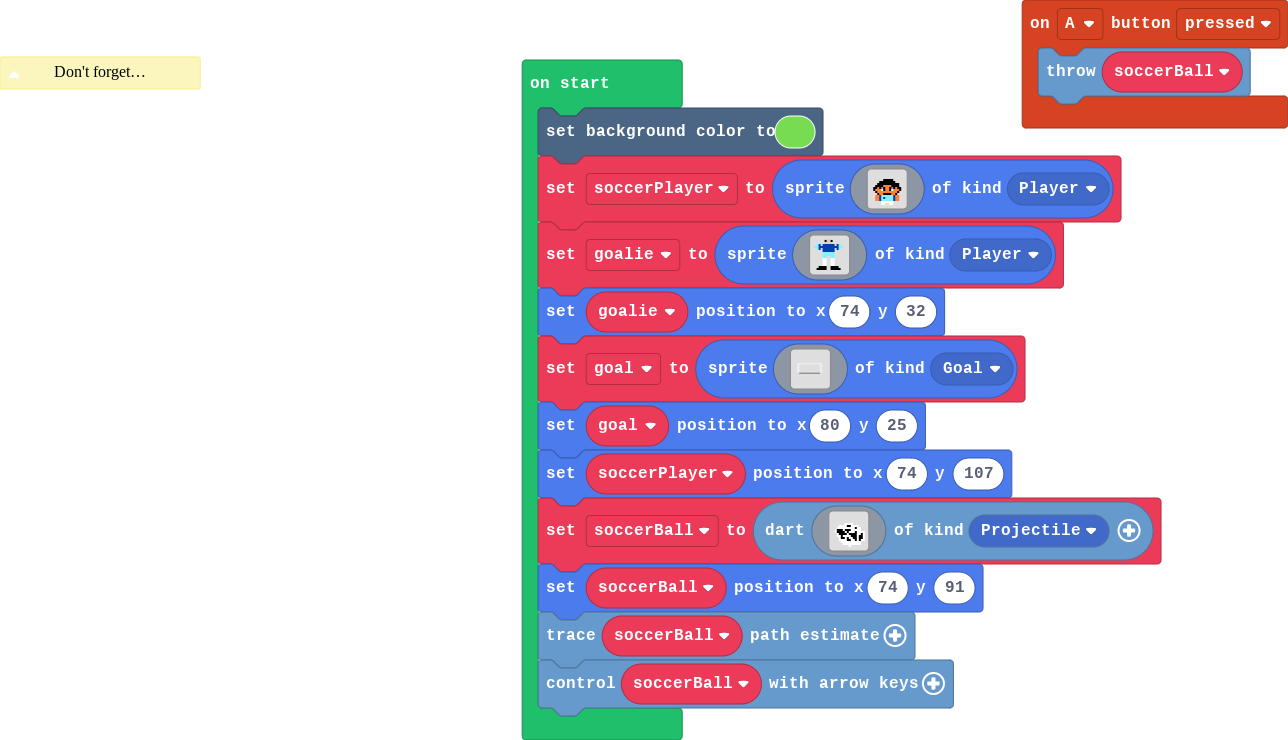
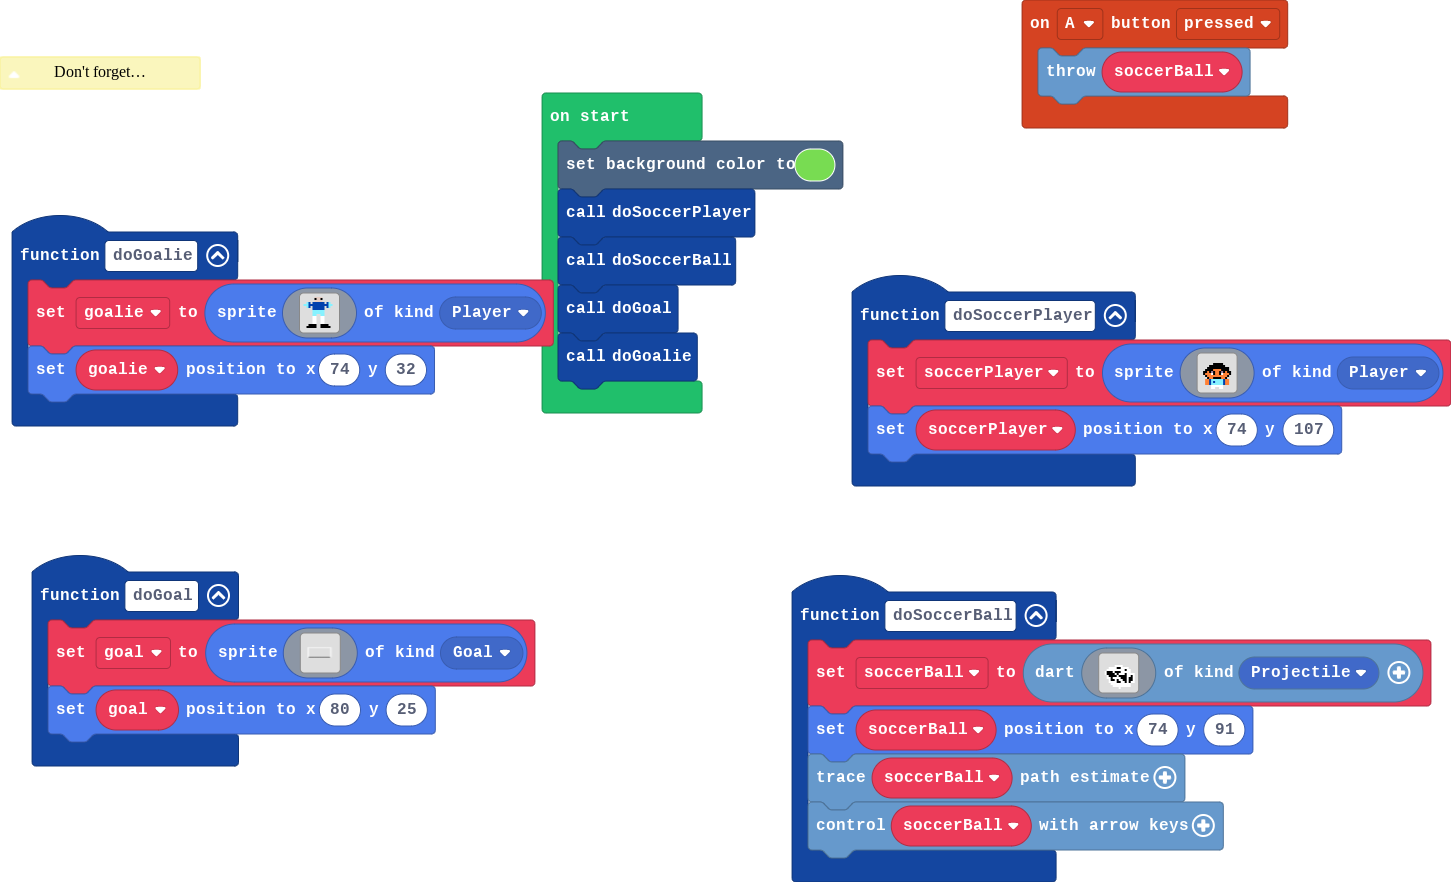
Update main.blocks, main.ts

diff --git a/main.ts b/main.ts
@@ -4,146 +4,161 @@ namespace SpriteKind {
 /**
  * Don't forget to comment your code as you work!
  */
+function doGoalie () {
+    goalie = sprites.create(img`
+        ...........dddddddd.............
+        ...........ffddddff.............
+        ...........ffddddff.............
+        ...........dddddddd.............
+        ...........dddddddd.............
+        ...9988..888888888888..8899.....
+        ...9988..888888888888..8899.....
+        99999888888888888888888889999...
+        99999888888888888888888889999...
+        ...9988..888888888888..8899.....
+        ...9988..888888888888..8899.....
+        .........888888888888...........
+        .........888888888888...........
+        .........999999999999...........
+        .........999999999999...........
+        .........999999999999...........
+        .........999999999999...........
+        .........9999....9999...........
+        .........9999....9999...........
+        .........1111....1111...........
+        .........1111....1111...........
+        .........1111....1111...........
+        .........1111....1111...........
+        .........1111....1111...........
+        .........1111....1111...........
+        .........1111....1111...........
+        .........1111....1111...........
+        .....ffffffff....ffffffff.......
+        .....ffffffff....ffffffff.......
+        ...ffffffffff....ffffffffff.....
+        ...ffffffffff....ffffffffff.....
+        ................................
+        `, SpriteKind.Player)
+    goalie.setPosition(74, 32)
+}
+function doSoccerPlayer () {
+    soccerPlayer = sprites.create(img`
+        . . . . . . . . . . . . . . . . 
+        . . . . . . . . . . . . . . . . 
+        . . . . . . . . . . . . . . . . 
+        . . . . . . f f f f f . . . . . 
+        . . . . f f f f f f f f . . . . 
+        . . . f f f f f f f f f f f . . 
+        . . f f f f 4 4 4 4 f f f f . . 
+        . f f 4 f b f 4 4 f b f 4 f f . 
+        . f 4 4 4 1 f 4 4 f 1 4 4 4 f . 
+        . . f 4 4 4 4 4 4 4 4 4 4 f . . 
+        . . . f 4 4 f f f f 4 4 f . . . 
+        . . 4 4 8 9 9 9 9 9 9 8 4 4 . . 
+        . . 4 4 8 9 8 9 9 9 9 8 4 4 . . 
+        . . 4 4 8 9 9 9 9 9 9 8 4 4 . . 
+        . . . . . 1 1 1 1 1 1 . . . . . 
+        . . . . . 1 1 . . 1 1 . . . . . 
+        `, SpriteKind.Player)
+    soccerPlayer.setPosition(74, 107)
+}
 controller.A.onEvent(ControllerButtonEvent.Pressed, function () {
     soccerBall.throwDart()
 })
+function doGoal () {
+    goal = sprites.create(img`
+        ......................................................................................................................................................
+        ......................................................................................................................................................
+        ......................................................................................................................................................
+        ......................................................................................................................................................
+        ......................................................................................................................................................
+        ......................................................................................................................................................
+        ................111111111111111111111111111111111111111111111111111111111111111111111111111111111111111111111111111111111111111.......................
+        ................111111111111111111111111111111111111111111111111111111111111111111111111111111111111111111111111111111111111111.......................
+        ................111111111111111111111111111111111111111111111111111111111111111111111111111111111111111111111111111111111111111.......................
+        ................11111.....................................................................................................11111.......................
+        ................11111.....................................................................................................11111.......................
+        ................11111.....................................................................................................11111.......................
+        ................11111.....................................................................................................11111.......................
+        ................11111.....................................................................................................11111.......................
+        ................11111.....................................................................................................11111.......................
+        ................11111.....................................................................................................11111.......................
+        ................11111.....................................................................................................11111.......................
+        ................11111.....................................................................................................11111.......................
+        ................11111.....................................................................................................11111.......................
+        ................11111.....................................................................................................11111.......................
+        ................11111.....................................................................................................11111.......................
+        ................11111.....................................................................................................11111.......................
+        ................11111.....................................................................................................11111.......................
+        ................11111.....................................................................................................11111.......................
+        ................11111.....................................................................................................11111.......................
+        ................11111.....................................................................................................11111.......................
+        ................11111.....................................................................................................11111.......................
+        ................11111.....................................................................................................11111.......................
+        ................11111.....................................................................................................11111.......................
+        ................11111.....................................................................................................11111.......................
+        ................11111.....................................................................................................11111.......................
+        ................11111.....................................................................................................11111.......................
+        ................11111.....................................................................................................11111.......................
+        ................11111.....................................................................................................11111.......................
+        ................11111.....................................................................................................11111.......................
+        ................11111.....................................................................................................11111.......................
+        ................11111.....................................................................................................11111.......................
+        ................11111.....................................................................................................11111.......................
+        ................11111.....................................................................................................11111.......................
+        ................11111.....................................................................................................11111.......................
+        ................11111.....................................................................................................11111.......................
+        ................11111.....................................................................................................11111.......................
+        ................11111.....................................................................................................11111.......................
+        ................11111.....................................................................................................11111.......................
+        ................11111.....................................................................................................11111.......................
+        ................11111.....................................................................................................11111.......................
+        ................11111.....................................................................................................11111.......................
+        ................11111.....................................................................................................11111.......................
+        ................11111.....................................................................................................11111.......................
+        ................11111.....................................................................................................11111.......................
+        ................11111.....................................................................................................11111.......................
+        ................11111.....................................................................................................11111.......................
+        ................11111fffffffffffffffffffffffffffffffffffffffffffffffffffffffffffffffffffffffffffffffffffffffffffffffffffff11111.......................
+        ................11111fffffffffffffffffffffffffffffffffffffffffffffffffffffffffffffffffffffffffffffffffffffffffffffffffffff11111.......................
+        ......................................................................................................................................................
+        ......................................................................................................................................................
+        ......................................................................................................................................................
+        ......................................................................................................................................................
+        ......................................................................................................................................................
+        ......................................................................................................................................................
+        `, SpriteKind.Goal)
+    goal.setPosition(80, 25)
+}
+function doSoccerBall () {
+    soccerBall = darts.create(img`
+        . . . . . . . . . . . . . . . . 
+        . . . . . . . . . . . . . . . . 
+        . . . . . . . . . . . . . . . . 
+        . . . . . . . . . . . . . . . . 
+        . . . . . . 1 1 1 1 . . . . . . 
+        . . . 1 1 1 1 f f 1 1 1 1 . . . 
+        . . 1 1 1 1 1 1 1 1 1 f 1 1 . . 
+        . 1 f f f 1 f f f 1 1 1 1 1 . . 
+        . 1 f f f f 1 f 1 1 1 f 1 1 1 1 
+        . . 1 f f f f 1 f f f f 1 1 f 1 
+        . . 1 1 f 1 1 1 1 f f f 1 f f 1 
+        . . . 1 f f 1 f 1 1 f f 1 f f 1 
+        . . . 1 1 1 1 f f 1 1 f 1 f 1 1 
+        . . . . 1 1 1 1 1 1 1 1 1 1 . . 
+        . . . . . 1 1 1 1 1 1 1 1 1 . . 
+        . . . . . . . . 1 . . . . . . . 
+        `, SpriteKind.Projectile)
+    soccerBall.setPosition(74, 91)
+    soccerBall.setTrace()
+    soccerBall.controlWithArrowKeys()
+}
+let goal: Sprite = null
 let soccerBall: Dart = null
+let soccerPlayer: Sprite = null
+let goalie: Sprite = null
 scene.setBackgroundColor(7)
-let soccerPlayer = sprites.create(img`
-    . . . . . . . . . . . . . . . . 
-    . . . . . . . . . . . . . . . . 
-    . . . . . . . . . . . . . . . . 
-    . . . . . . f f f f f . . . . . 
-    . . . . f f f f f f f f . . . . 
-    . . . f f f f f f f f f f f . . 
-    . . f f f f 4 4 4 4 f f f f . . 
-    . f f 4 f b f 4 4 f b f 4 f f . 
-    . f 4 4 4 1 f 4 4 f 1 4 4 4 f . 
-    . . f 4 4 4 4 4 4 4 4 4 4 f . . 
-    . . . f 4 4 f f f f 4 4 f . . . 
-    . . 4 4 8 9 9 9 9 9 9 8 4 4 . . 
-    . . 4 4 8 9 8 9 9 9 9 8 4 4 . . 
-    . . 4 4 8 9 9 9 9 9 9 8 4 4 . . 
-    . . . . . 1 1 1 1 1 1 . . . . . 
-    . . . . . 1 1 . . 1 1 . . . . . 
-    `, SpriteKind.Player)
-let goalie = sprites.create(img`
-    ...........dddddddd.............
-    ...........ffddddff.............
-    ...........ffddddff.............
-    ...........dddddddd.............
-    ...........dddddddd.............
-    ...9988..888888888888..8899.....
-    ...9988..888888888888..8899.....
-    99999888888888888888888889999...
-    99999888888888888888888889999...
-    ...9988..888888888888..8899.....
-    ...9988..888888888888..8899.....
-    .........888888888888...........
-    .........888888888888...........
-    .........999999999999...........
-    .........999999999999...........
-    .........999999999999...........
-    .........999999999999...........
-    .........9999....9999...........
-    .........9999....9999...........
-    .........1111....1111...........
-    .........1111....1111...........
-    .........1111....1111...........
-    .........1111....1111...........
-    .........1111....1111...........
-    .........1111....1111...........
-    .........1111....1111...........
-    .........1111....1111...........
-    .....ffffffff....ffffffff.......
-    .....ffffffff....ffffffff.......
-    ...ffffffffff....ffffffffff.....
-    ...ffffffffff....ffffffffff.....
-    ................................
-    `, SpriteKind.Player)
-goalie.setPosition(74, 32)
-let goal = sprites.create(img`
-    ......................................................................................................................................................
-    ......................................................................................................................................................
-    ......................................................................................................................................................
-    ......................................................................................................................................................
-    ......................................................................................................................................................
-    ......................................................................................................................................................
-    ................111111111111111111111111111111111111111111111111111111111111111111111111111111111111111111111111111111111111111.......................
-    ................111111111111111111111111111111111111111111111111111111111111111111111111111111111111111111111111111111111111111.......................
-    ................111111111111111111111111111111111111111111111111111111111111111111111111111111111111111111111111111111111111111.......................
-    ................11111.....................................................................................................11111.......................
-    ................11111.....................................................................................................11111.......................
-    ................11111.....................................................................................................11111.......................
-    ................11111.....................................................................................................11111.......................
-    ................11111.....................................................................................................11111.......................
-    ................11111.....................................................................................................11111.......................
-    ................11111.....................................................................................................11111.......................
-    ................11111.....................................................................................................11111.......................
-    ................11111.....................................................................................................11111.......................
-    ................11111.....................................................................................................11111.......................
-    ................11111.....................................................................................................11111.......................
-    ................11111.....................................................................................................11111.......................
-    ................11111.....................................................................................................11111.......................
-    ................11111.....................................................................................................11111.......................
-    ................11111.....................................................................................................11111.......................
-    ................11111.....................................................................................................11111.......................
-    ................11111.....................................................................................................11111.......................
-    ................11111.....................................................................................................11111.......................
-    ................11111.....................................................................................................11111.......................
-    ................11111.....................................................................................................11111.......................
-    ................11111.....................................................................................................11111.......................
-    ................11111.....................................................................................................11111.......................
-    ................11111.....................................................................................................11111.......................
-    ................11111.....................................................................................................11111.......................
-    ................11111.....................................................................................................11111.......................
-    ................11111.....................................................................................................11111.......................
-    ................11111.....................................................................................................11111.......................
-    ................11111.....................................................................................................11111.......................
-    ................11111.....................................................................................................11111.......................
-    ................11111.....................................................................................................11111.......................
-    ................11111.....................................................................................................11111.......................
-    ................11111.....................................................................................................11111.......................
-    ................11111.....................................................................................................11111.......................
-    ................11111.....................................................................................................11111.......................
-    ................11111.....................................................................................................11111.......................
-    ................11111.....................................................................................................11111.......................
-    ................11111.....................................................................................................11111.......................
-    ................11111.....................................................................................................11111.......................
-    ................11111.....................................................................................................11111.......................
-    ................11111.....................................................................................................11111.......................
-    ................11111.....................................................................................................11111.......................
-    ................11111.....................................................................................................11111.......................
-    ................11111.....................................................................................................11111.......................
-    ................11111fffffffffffffffffffffffffffffffffffffffffffffffffffffffffffffffffffffffffffffffffffffffffffffffffffff11111.......................
-    ................11111fffffffffffffffffffffffffffffffffffffffffffffffffffffffffffffffffffffffffffffffffffffffffffffffffffff11111.......................
-    ......................................................................................................................................................
-    ......................................................................................................................................................
-    ......................................................................................................................................................
-    ......................................................................................................................................................
-    ......................................................................................................................................................
-    ......................................................................................................................................................
-    `, SpriteKind.Goal)
-goal.setPosition(80, 25)
-soccerPlayer.setPosition(74, 107)
-soccerBall = darts.create(img`
-    . . . . . . . . . . . . . . . . 
-    . . . . . . . . . . . . . . . . 
-    . . . . . . . . . . . . . . . . 
-    . . . . . . . . . . . . . . . . 
-    . . . . . . 1 1 1 1 . . . . . . 
-    . . . 1 1 1 1 f f 1 1 1 1 . . . 
-    . . 1 1 1 1 1 1 1 1 1 f 1 1 . . 
-    . 1 f f f 1 f f f 1 1 1 1 1 . . 
-    . 1 f f f f 1 f 1 1 1 f 1 1 1 1 
-    . . 1 f f f f 1 f f f f 1 1 f 1 
-    . . 1 1 f 1 1 1 1 f f f 1 f f 1 
-    . . . 1 f f 1 f 1 1 f f 1 f f 1 
-    . . . 1 1 1 1 f f 1 1 f 1 f 1 1 
-    . . . . 1 1 1 1 1 1 1 1 1 1 . . 
-    . . . . . 1 1 1 1 1 1 1 1 1 . . 
-    . . . . . . . . 1 . . . . . . . 
-    `, SpriteKind.Projectile)
-soccerBall.setPosition(74, 91)
-soccerBall.setTrace()
-soccerBall.controlWithArrowKeys()
+doSoccerPlayer()
+doSoccerBall()
+doGoal()
+doGoalie()
